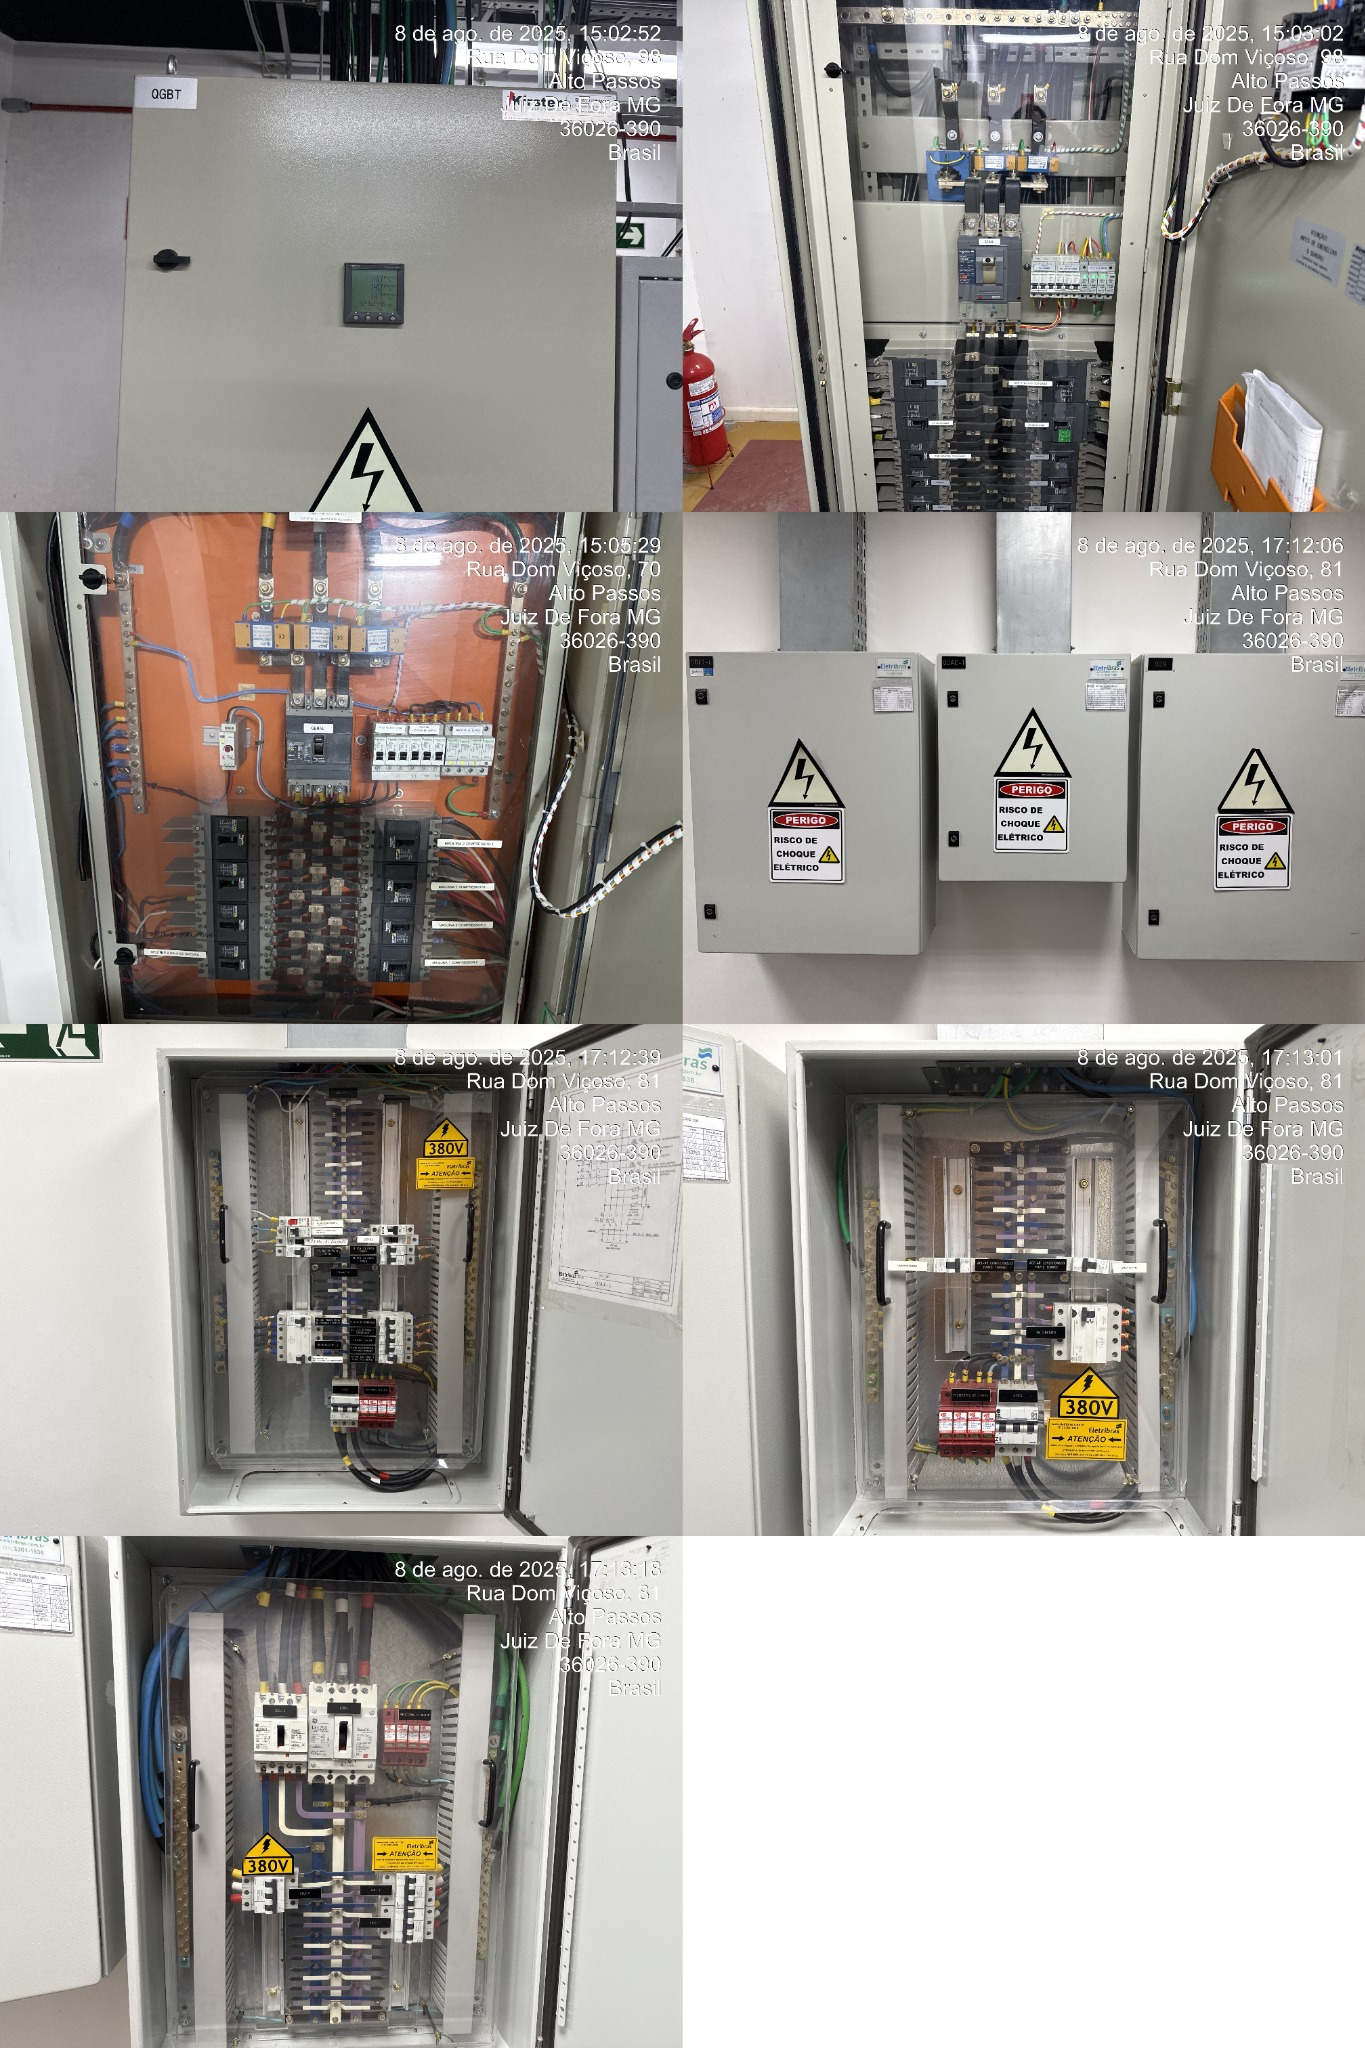
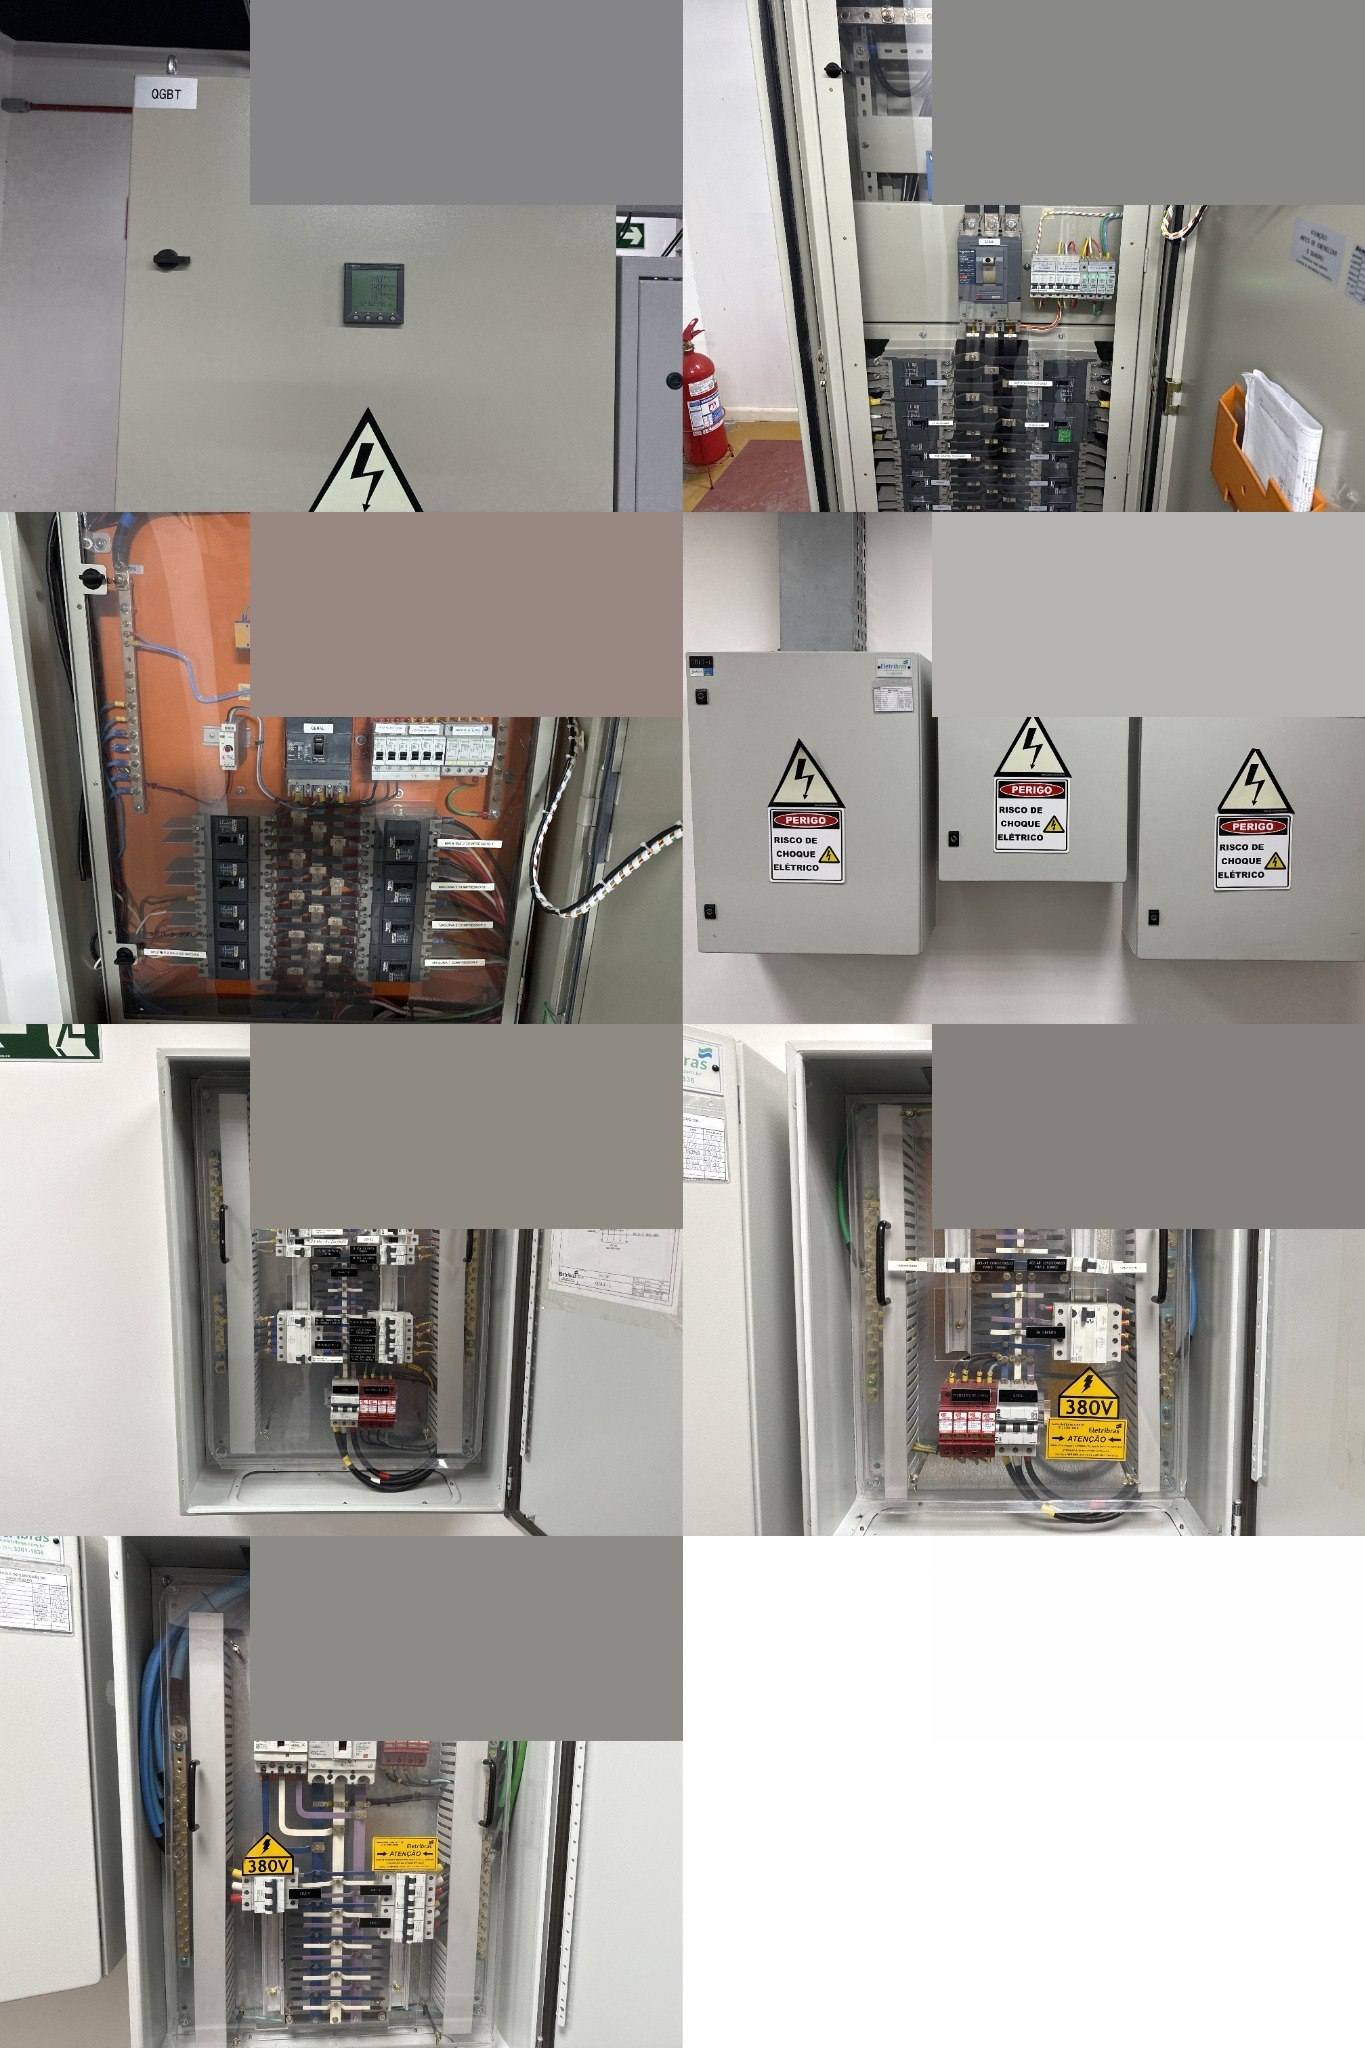
Remove dados de cliente das imagens e adota o amarelo do papel timbrado
Sigilo
- Tarja sólida sobre os carimbos de geolocalização das fotos de inspeção
  (exemplo-laudo-spda-1 a -4): endereço, CEP e horário de cada foto.
- Tarja sobre o código do site, endereço e bairro no cabeçalho dos laudos
  (laudo-exemplo-1 e -2). CREA e ART ficam: são credenciais da MGX.
- Preenchimento sólido em vez de desfoque: o redimensionamento do GDI+
  amostra em vez de fazer média, e a primeira linha do texto continuava
  legível depois de ampliar de volta.

Identidade
- Amarelo passa a ser #FFD966, o do papel timbrado, no lugar do #FEBD59
  que eu tinha tirado da logo. Grafite passa a ser #404040, também do
  timbrado. Escala de cinza agora é neutra, como a da marca.
- Logo e favicon recoloridos para o mesmo amarelo.

Correção
- canonical e og:url apontavam para mgxengenharia.com.br, que é outro
  domínio (site antigo em PHP). O correto é www.mgxengenhariasi.com.br.

diff --git a/index.html b/index.html
@@ -13,8 +13,8 @@
 <meta content="width=device-width, initial-scale=1.0" name="viewport"/>
 <title>MGX Engenharia | Projetos Elétricos, SPDA, Telecom e Inspeções</title>
 <meta name="description" content="MGX Engenharia e Soluções Integradas — projetos elétricos em BIM/Revit, SPDA, telecom, AVCB e laudos de inspeção de SPDA com medições rastreáveis. Juiz de Fora e região."/>
-<meta name="theme-color" content="#16181C"/>
-<link rel="canonical" href="https://mgxengenharia.com.br/"/>
+<meta name="theme-color" content="#1A1A1A"/>
+<link rel="canonical" href="https://www.mgxengenhariasi.com.br/"/>
 <link rel="icon" type="image/png" href="img/mgx-icone.png"/>
 <link rel="apple-touch-icon" href="img/mgx-icone.png"/>
 <meta property="og:type" content="website"/>
@@ -22,35 +22,35 @@
 <meta property="og:site_name" content="MGX Engenharia e Soluções Integradas"/>
 <meta property="og:title" content="MGX Engenharia | Projetos Elétricos, SPDA, Telecom e Inspeções"/>
 <meta property="og:description" content="Projetos elétricos em BIM/Revit, SPDA, telecom, AVCB e laudos de inspeção com medições rastreáveis. Juiz de Fora e região."/>
-<meta property="og:url" content="https://mgxengenharia.com.br/"/>
-<meta property="og:image" content="https://mgxengenharia.com.br/img/exemplo-projeto-eletrico-4-3d-casa.jpg"/>
+<meta property="og:url" content="https://www.mgxengenhariasi.com.br/"/>
+<meta property="og:image" content="https://www.mgxengenhariasi.com.br/img/exemplo-projeto-eletrico-4-3d-casa.jpg"/>
 <meta name="twitter:card" content="summary_large_image"/>
 <link href="https://fonts.googleapis.com" rel="preconnect"/>
 <link crossorigin="" href="https://fonts.gstatic.com" rel="preconnect"/>
 <link href="https://fonts.googleapis.com/css2?family=Inter:wght@300;400;500;600;700&amp;family=Space+Grotesk:wght@400;500;600;700&amp;display=swap" rel="stylesheet"/>
 <style>
   :root{
-    /* Identidade MGX — extraída da logo oficial */
-    --brand:#FEBD59;        /* amarelo âmbar MGX */
-    --brand-hi:#FFD28A;     /* âmbar claro (hover em fundo escuro) */
-    --brand-deep:#9A6410;   /* âmbar escuro (texto sobre fundo claro) */
-    --graphite:#545454;     /* cinza MGX */
+    /* Identidade MGX — cores oficiais do papel timbrado e da logo */
+    --brand:#FFD966;        /* amarelo MGX (papel timbrado) */
+    --brand-hi:#FFE79A;     /* âmbar claro (hover em fundo escuro) */
+    --brand-deep:#8C6209;   /* âmbar escuro (texto sobre fundo claro) */
+    --graphite:#404040;     /* grafite MGX (logo e timbrado) */
 
-    --ink:#16181C;          /* fundo escuro */
-    --ink-2:#1E2126;        /* superfície escura elevada */
-    --ink-line:#2E3238;
+    --ink:#1A1A1A;          /* fundo escuro */
+    --ink-2:#242424;        /* superfície escura elevada */
+    --ink-line:#333333;
 
-    --paper:#FAFAF8;        /* fundo claro */
+    --paper:#FAFAF9;        /* fundo claro */
     --surface:#FFFFFF;
-    --line:#E6E4DF;
-    --text:#1A1C20;
-    --muted:#6B6F76;
-    --muted-dark:#A3A69C;
+    --line:#E4E2DE;
+    --text:#1F1F1F;
+    --muted:#6A6A6A;
+    --muted-dark:#A8A8A8;
 
     --radius:16px;
     --radius-sm:10px;
-    --shadow:0 1px 2px rgba(22,24,28,.04), 0 12px 32px rgba(22,24,28,.07);
-    --shadow-lg:0 2px 4px rgba(22,24,28,.05), 0 24px 60px rgba(22,24,28,.12);
+    --shadow:0 1px 2px rgba(26,26,26,.04), 0 12px 32px rgba(26,26,26,.07);
+    --shadow-lg:0 2px 4px rgba(26,26,26,.05), 0 24px 60px rgba(26,26,26,.12);
     --maxw:1180px;
   }
 
@@ -77,7 +77,7 @@
   /* ---------- Topbar ---------- */
   .topbar{
     position:sticky; top:0; z-index:60;
-    background:rgba(22,24,28,.86);
+    background:rgba(26,26,26,.86);
     backdrop-filter:blur(14px); -webkit-backdrop-filter:blur(14px);
     border-bottom:1px solid rgba(255,255,255,.08);
   }
@@ -127,14 +127,14 @@
 
   /* ---------- Blocos escuros / claros ---------- */
   .dark{
-    background:var(--ink); color:#EDEDEA; position:relative; overflow:hidden;
+    background:var(--ink); color:#EDEDED; position:relative; overflow:hidden;
   }
   /* grade sutil de prancha técnica */
   .dark::before{
     content:""; position:absolute; inset:0; pointer-events:none;
     background-image:
-      linear-gradient(rgba(254,189,89,.045) 1px, transparent 1px),
-      linear-gradient(90deg, rgba(254,189,89,.045) 1px, transparent 1px);
+      linear-gradient(rgba(255,217,102,.045) 1px, transparent 1px),
+      linear-gradient(90deg, rgba(255,217,102,.045) 1px, transparent 1px);
     background-size:64px 64px;
     mask-image:radial-gradient(ellipse 90% 70% at 50% 0%, #000 35%, transparent 100%);
     -webkit-mask-image:radial-gradient(ellipse 90% 70% at 50% 0%, #000 35%, transparent 100%);
@@ -166,10 +166,10 @@
   .kicker{
     display:inline-flex; align-items:center; gap:9px;
     font-size:13px; font-weight:500; color:var(--brand);
-    border:1px solid rgba(254,189,89,.28); background:rgba(254,189,89,.07);
+    border:1px solid rgba(255,217,102,.28); background:rgba(255,217,102,.07);
     padding:7px 15px; border-radius:100px; margin-bottom:26px;
   }
-  .kicker .dot{width:6px; height:6px; border-radius:50%; background:var(--brand); box-shadow:0 0 0 4px rgba(254,189,89,.18)}
+  .kicker .dot{width:6px; height:6px; border-radius:50%; background:var(--brand); box-shadow:0 0 0 4px rgba(255,217,102,.18)}
   .hero h1{
     font-size:clamp(36px, 6.2vw, 68px); font-weight:700; letter-spacing:-.035em; color:#fff;
   }
@@ -183,8 +183,8 @@
     border:1px solid transparent; cursor:pointer; transition:transform .16s, background .18s, border-color .18s, box-shadow .18s;
     font-family:'Inter',sans-serif;
   }
-  .btn.primary{background:var(--brand); color:var(--ink); box-shadow:0 8px 24px rgba(254,189,89,.22)}
-  .btn.primary:hover{background:var(--brand-hi); transform:translateY(-2px); box-shadow:0 12px 30px rgba(254,189,89,.3)}
+  .btn.primary{background:var(--brand); color:var(--ink); box-shadow:0 8px 24px rgba(255,217,102,.22)}
+  .btn.primary:hover{background:var(--brand-hi); transform:translateY(-2px); box-shadow:0 12px 30px rgba(255,217,102,.3)}
   .btn.ghost{border-color:rgba(255,255,255,.22); color:#fff; background:rgba(255,255,255,.03)}
   .btn.ghost:hover{border-color:var(--brand); color:var(--brand); transform:translateY(-2px)}
   .btn.dark{background:var(--ink); color:#fff}
@@ -202,7 +202,7 @@
   .bullets li{display:flex; gap:12px; align-items:flex-start; font-size:15.5px; line-height:1.5; color:rgba(255,255,255,.86)}
   .check{
     flex-shrink:0; width:20px; height:20px; border-radius:50%; margin-top:2px;
-    background:rgba(254,189,89,.14); border:1px solid rgba(254,189,89,.4); position:relative;
+    background:rgba(255,217,102,.14); border:1px solid rgba(255,217,102,.4); position:relative;
   }
   .check::after{
     content:""; position:absolute; left:6.4px; top:3.4px; width:4.5px; height:8.5px;
@@ -229,8 +229,8 @@
     overflow:hidden; display:flex; flex-direction:column;
     transition:transform .22s, box-shadow .22s, border-color .22s;
   }
-  .svc:hover{transform:translateY(-5px); box-shadow:var(--shadow-lg); border-color:rgba(254,189,89,.55)}
-  .svc-media{aspect-ratio:16/10; overflow:hidden; background:#F0EEE9; border-bottom:1px solid var(--line)}
+  .svc:hover{transform:translateY(-5px); box-shadow:var(--shadow-lg); border-color:rgba(255,217,102,.55)}
+  .svc-media{aspect-ratio:16/10; overflow:hidden; background:#F2F0EC; border-bottom:1px solid var(--line)}
   .svc-media img{width:100%; height:100%; object-fit:cover; transition:transform .5s ease}
   .svc:hover .svc-media img{transform:scale(1.045)}
   .svc-body{padding:24px; display:flex; flex-direction:column; flex:1}
@@ -250,7 +250,7 @@
   .split.even{grid-template-columns:1fr 1fr}
 
   .bullets.on-light li{color:var(--text)}
-  .bullets.on-light .check{background:rgba(254,189,89,.16); border-color:rgba(154,100,16,.4)}
+  .bullets.on-light .check{background:rgba(255,217,102,.16); border-color:rgba(140,98,9,.4)}
   .bullets.on-light .check::after{border-color:var(--brand-deep)}
 
   .note{font-size:14px; color:var(--muted); margin:14px 0 0; line-height:1.55}
@@ -262,10 +262,10 @@
   .dark .step{background:rgba(255,255,255,.04); border-color:rgba(255,255,255,.1)}
   .num{
     width:34px; height:34px; border-radius:9px; display:grid; place-items:center;
-    background:rgba(254,189,89,.16); color:var(--brand-deep);
+    background:rgba(255,217,102,.16); color:var(--brand-deep);
     font-family:'Space Grotesk',sans-serif; font-weight:700; font-size:15px; margin-bottom:13px;
   }
-  .dark .num{background:rgba(254,189,89,.14); color:var(--brand)}
+  .dark .num{background:rgba(255,217,102,.14); color:var(--brand)}
   .step h4{font-size:16px; font-weight:600; margin:0 0 6px}
   .step p{margin:0; font-size:14.5px; color:var(--muted); line-height:1.55}
   .dark .step p{color:var(--muted-dark)}
@@ -276,7 +276,7 @@
     background:var(--surface); border:1px solid var(--line); border-radius:var(--radius-sm); padding:22px;
     transition:border-color .2s, transform .2s;
   }
-  .card:hover{border-color:rgba(254,189,89,.55); transform:translateY(-3px)}
+  .card:hover{border-color:rgba(255,217,102,.55); transform:translateY(-3px)}
   .dark .card{background:rgba(255,255,255,.04); border-color:rgba(255,255,255,.1)}
   .card h3{margin-bottom:8px}
   .card p{margin:0; font-size:14.5px; color:var(--muted); line-height:1.55}
@@ -292,16 +292,16 @@
   .meta{display:flex; flex-wrap:wrap; gap:8px; margin-top:16px}
   .pill{
     font-size:12.5px; font-weight:600; letter-spacing:.03em; padding:6px 13px; border-radius:100px;
-    background:rgba(254,189,89,.13); color:var(--brand-deep); border:1px solid rgba(254,189,89,.32);
+    background:rgba(255,217,102,.13); color:var(--brand-deep); border:1px solid rgba(255,217,102,.32);
   }
-  .dark .pill{color:var(--brand); background:rgba(254,189,89,.1)}
+  .dark .pill{color:var(--brand); background:rgba(255,217,102,.1)}
 
-  .figure{border-radius:var(--radius-sm); overflow:hidden; border:1px solid var(--line); background:#F0EEE9}
+  .figure{border-radius:var(--radius-sm); overflow:hidden; border:1px solid var(--line); background:#F2F0EC}
   .dark .figure{border-color:rgba(255,255,255,.12); background:rgba(255,255,255,.04)}
   .figure img{width:100%; height:100%; object-fit:cover; cursor:zoom-in; transition:transform .45s}
   .figure:hover img{transform:scale(1.03)}
   /* Diagramas e documentos precisam aparecer inteiros — cortar esconde legendas. */
-  .figure.fit{background:#F4F2ED}
+  .figure.fit{background:#F4F2EE}
   .figure.fit img{object-fit:contain; padding:10px}
   .dark .figure.fit{background:rgba(255,255,255,.05)}
 
@@ -318,7 +318,7 @@
   .thumb::after{
     content:"⤢"; position:absolute; right:9px; bottom:7px; width:26px; height:26px;
     display:grid; place-items:center; border-radius:7px; font-size:13px;
-    background:rgba(22,24,28,.72); color:var(--brand); opacity:0; transition:opacity .2s;
+    background:rgba(26,26,26,.72); color:var(--brand); opacity:0; transition:opacity .2s;
   }
   .thumb:hover::after{opacity:1}
 
@@ -326,7 +326,7 @@
   .contact-wrap{
     display:grid; grid-template-columns:1.1fr .9fr; gap:clamp(24px,4vw,48px); align-items:center;
     background:linear-gradient(135deg, var(--ink-2) 0%, var(--ink) 100%);
-    border:1px solid rgba(254,189,89,.22); border-radius:20px;
+    border:1px solid rgba(255,217,102,.22); border-radius:20px;
     padding:clamp(28px,4.5vw,52px);
   }
   .contact-wrap h2{margin-bottom:12px}
@@ -336,17 +336,17 @@
     background:rgba(255,255,255,.045); border:1px solid rgba(255,255,255,.1); border-radius:12px;
     text-decoration:none; transition:border-color .2s, background .2s, transform .2s;
   }
-  .contact-item:hover{border-color:var(--brand); background:rgba(254,189,89,.07); transform:translateX(3px)}
+  .contact-item:hover{border-color:var(--brand); background:rgba(255,217,102,.07); transform:translateX(3px)}
   .ci-ico{
     flex-shrink:0; width:38px; height:38px; border-radius:10px; display:grid; place-items:center;
-    background:rgba(254,189,89,.14); font-size:17px;
+    background:rgba(255,217,102,.14); font-size:17px;
   }
   .ci-txt{display:flex; flex-direction:column; min-width:0}
   .ci-txt small{font-size:11.5px; letter-spacing:.13em; text-transform:uppercase; color:var(--brand); font-weight:600}
   .ci-txt b{font-size:15.5px; color:#fff; font-weight:600; overflow-wrap:anywhere}
 
   /* ---------- Rodapé ---------- */
-  footer{background:#101215; color:rgba(255,255,255,.6); padding:44px 0 34px; border-top:1px solid rgba(255,255,255,.08)}
+  footer{background:#141414; color:rgba(255,255,255,.6); padding:44px 0 34px; border-top:1px solid rgba(255,255,255,.08)}
   .foot{display:flex; flex-wrap:wrap; gap:18px; justify-content:space-between; align-items:center; font-size:14px}
   .foot img{height:26px; width:auto; margin-bottom:9px}
   .foot-links{display:flex; flex-wrap:wrap; gap:16px}
